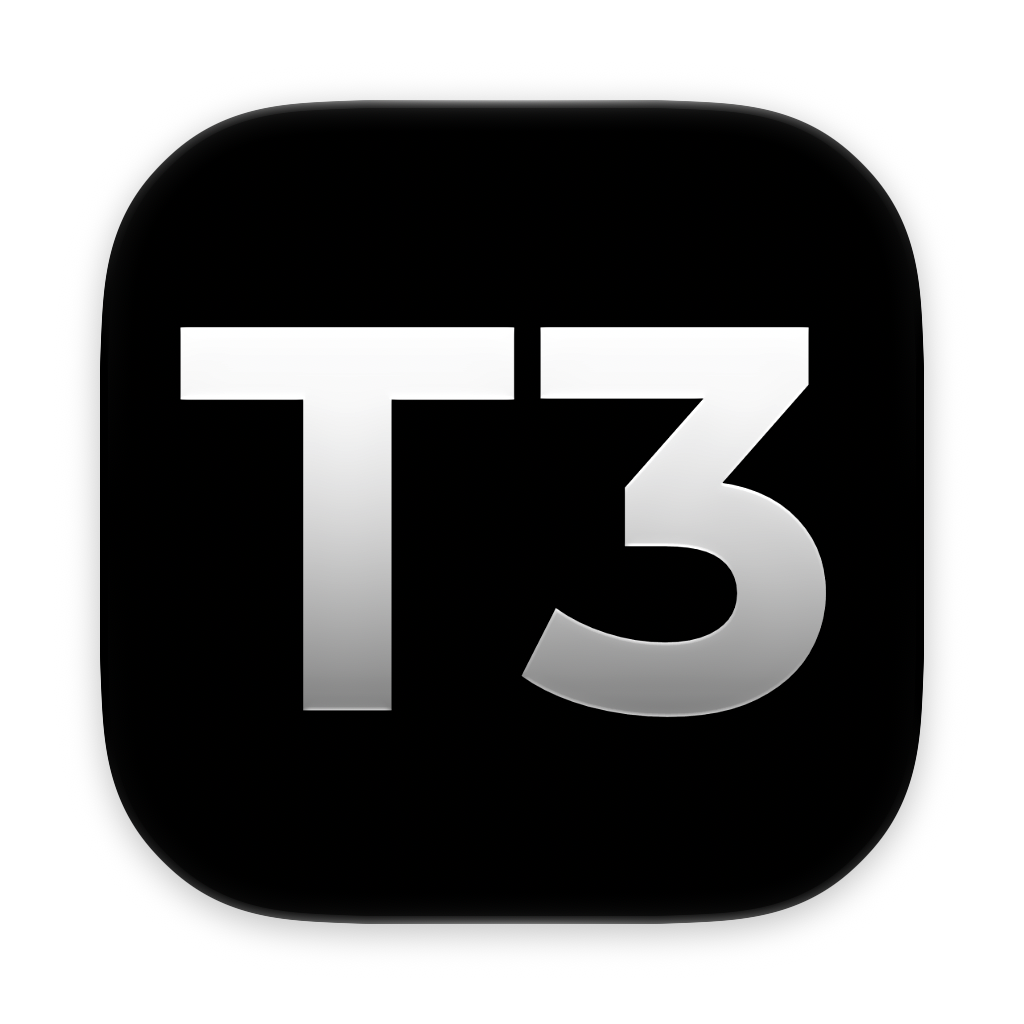
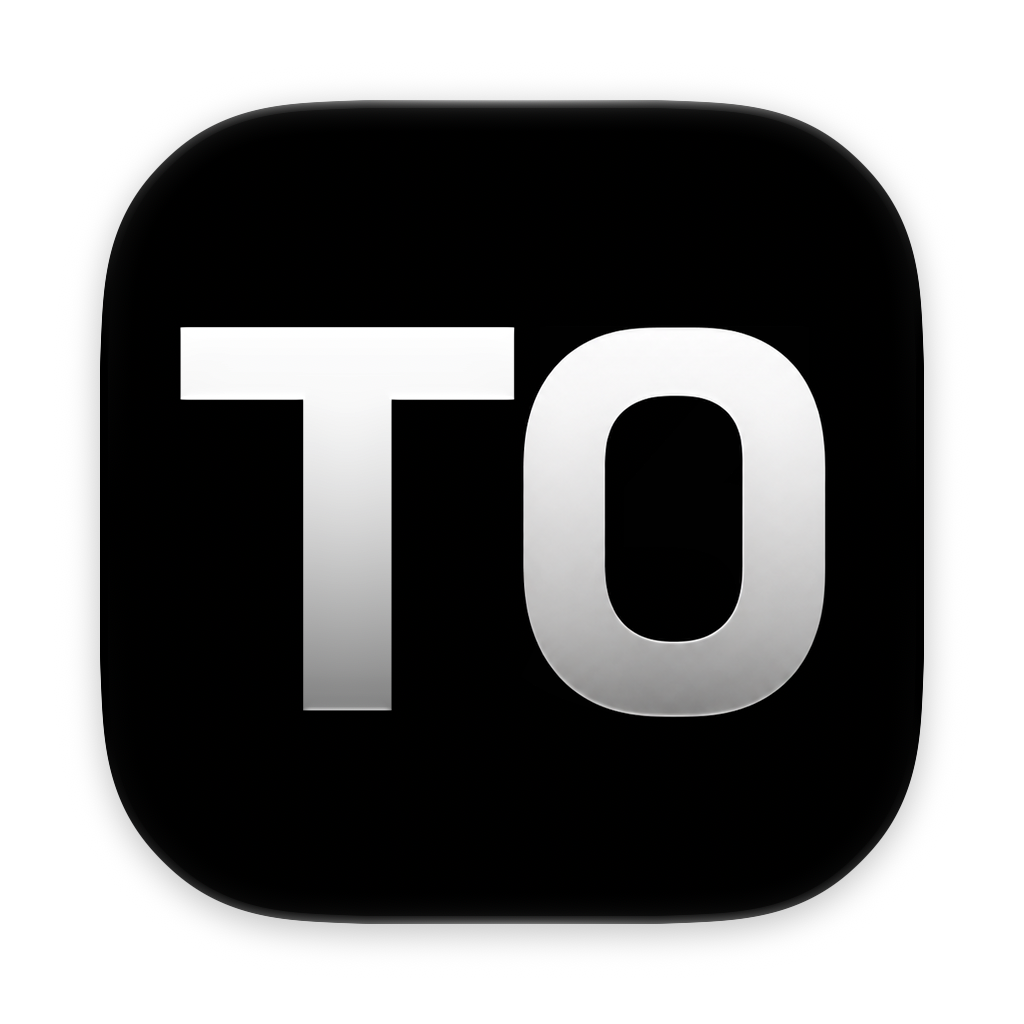
feat: ship the fork as T0 Code with GitHub release updates
The fork now builds as its own app so it can be installed next to T3 Code
and handed to other people: T0 Code (Beta), bundle id com.imxv.t0code,
T0-Code-* artifacts, a T0 icon, and its own ~/.t0 data directory and
Electron profile. The t3code:// scheme stays so pairing with the official
mobile app keeps working.

macOS builds can sign with an Apple Development identity instead of
Developer ID. That identity has a team ID, so the login keychain keeps
trusting each rebuild instead of asking again after every update; such
builds skip notarization and passkey entitlements. scripts/release-local-macos.sh
uses it for local test releases, and release-t0.yml signs with it in CI and
publishes a GitHub release that installed copies auto-update from, with the
public T3 Connect identifiers that official builds ship.

Made with Claude Opus 5.5 in T3 Code.

diff --git a/scripts/build-desktop-artifact.ts b/scripts/build-desktop-artifact.ts
@@ -63,7 +63,7 @@ import { Command, Flag } from "effect/cli";
 import { ChildProcess, ChildProcessSpawner } from "effect/process";
 
 const LINUX_ICON_SIZES = [16, 22, 24, 32, 48, 64, 128, 256, 512] as const;
-const DESKTOP_APP_ID = "com.t3tools.t3code";
+const DESKTOP_APP_ID = "com.imxv.t0code";
 const APPLE_TEAM_ID_PATTERN = /^[A-Z0-9]{10}$/u;
 
 const BuildPlatform = Schema.Literals(["mac", "linux", "win"]);
@@ -2799,8 +2799,8 @@ export function resolvePackageManagerUserAgent(packageManager: string): string {
 
 export function resolveDesktopProductName(version: string): string {
   return resolveDesktopUpdateChannel(version) === "nightly"
-    ? "T3 Code (Nightly)"
-    : (desktopPackageJson.productName ?? "T3 Code");
+    ? "T0 Code (Nightly)"
+    : (desktopPackageJson.productName ?? "T0 Code");
 }
 
 export const createBuildConfig = Effect.fn("createBuildConfig")(function* (
@@ -2818,12 +2818,13 @@ export const createBuildConfig = Effect.fn("createBuildConfig")(function* (
     | undefined,
   wslRuntimeBundled = false,
   arch?: typeof BuildArch.Type,
+  localMacSigning = false,
 ) {
   const buildConfig: Record<string, unknown> = {
     afterPack: (yield* Path.Path).join(yield* RepoRoot, "scripts/prepare-server-compile-cache.cjs"),
     appId: DESKTOP_APP_ID,
     productName: resolveDesktopProductName(version),
-    artifactName: "T3-Code-${version}-${arch}.${ext}",
+    artifactName: "T0-Code-${version}-${arch}.${ext}",
     electronLanguages: [...DESKTOP_ELECTRON_LANGUAGES],
     files: [
       ...DESKTOP_FILE_EXCLUSIONS,
@@ -2853,7 +2854,9 @@ export const createBuildConfig = Effect.fn("createBuildConfig")(function* (
   // Missing publish config infers a GitHub feed from tokens; staging has no repository, so manifest generation would crash.
   buildConfig.publish = null;
   if (!isDesktopPreviewVersion(version)) {
-    const publishConfig = yield* resolveGitHubPublishConfig(updateChannel);
+    // Local test releases serve the mock feed; fork releases publish to GitHub.
+    const publishConfig =
+      localMacSigning && mockUpdates ? undefined : yield* resolveGitHubPublishConfig(updateChannel);
     if (publishConfig) {
       buildConfig.publish = [publishConfig];
     } else if (mockUpdates) {
@@ -2877,23 +2880,23 @@ export const createBuildConfig = Effect.fn("createBuildConfig")(function* (
         // macOS 26 offers Messages/Mail codes in every text field unless opted out.
         NSAutoFillRequiresTextContentTypeForOneTimeCodeOnMac: true,
         NSLocalNetworkUsageDescription:
-          "T3 Code connects to devices on your local network for remote environments and commands run by terminals and coding agents.",
+          "T0 Code connects to devices on your local network for remote environments and commands run by terminals and coding agents.",
         NSCalendarsUsageDescription:
-          "Commands you run in T3 Code may need access to your calendars.",
+          "Commands you run in T0 Code may need access to your calendars.",
         NSCalendarsFullAccessUsageDescription:
-          "Commands you run in T3 Code may need to read and write your calendar events.",
+          "Commands you run in T0 Code may need to read and write your calendar events.",
         NSCalendarsWriteOnlyAccessUsageDescription:
-          "Commands you run in T3 Code may need to add events to your calendars.",
+          "Commands you run in T0 Code may need to add events to your calendars.",
         NSScreenCaptureUsageDescription:
-          "T3 Code captures the active window when you use the window capture shortcut.",
+          "T0 Code captures the active window when you use the window capture shortcut.",
         NSCameraUsageDescription:
-          "T3 Code lets commands run by terminals and coding agents use the camera.",
+          "T0 Code lets commands run by terminals and coding agents use the camera.",
         NSMicrophoneUsageDescription:
-          "T3 Code lets commands run by terminals and coding agents use the microphone.",
+          "T0 Code lets commands run by terminals and coding agents use the microphone.",
         NSAppleEventsUsageDescription:
-          "T3 Code lets commands run by terminals and coding agents control other apps.",
+          "T0 Code lets commands run by terminals and coding agents control other apps.",
         NSSpeechRecognitionUsageDescription:
-          "T3 Code transcribes your dictation on this Mac when you choose Apple Speech.",
+          "T0 Code transcribes your dictation on this Mac when you choose Apple Speech.",
         // macOS lists an app under Default web browser only when it opens web
         // pages as documents as well as http and https links (see protocols).
         CFBundleDocumentTypes: [
@@ -2907,7 +2910,7 @@ export const createBuildConfig = Effect.fn("createBuildConfig")(function* (
       },
       protocols: [
         {
-          name: "T3 Code",
+          name: "T0 Code",
           schemes: ["t3code", "t3code-dev"],
         },
         {
@@ -2917,6 +2920,7 @@ export const createBuildConfig = Effect.fn("createBuildConfig")(function* (
         },
       ],
       ...(signed ? { sign: path.join(repoRoot, "scripts/sign-macos.ts") } : {}),
+      ...(localMacSigning ? { identity: "-", notarize: false } : {}),
       ...(macPasskeySigning
         ? {
             entitlements: macPasskeySigning.entitlementsPath,
@@ -2960,7 +2964,7 @@ export const createBuildConfig = Effect.fn("createBuildConfig")(function* (
       maintainer: "T3 Tools <hello@t3.codes>",
       protocols: [
         {
-          name: "T3 Code",
+          name: "T0 Code",
           schemes: ["t3code", "t3code-dev"],
         },
       ],
@@ -2975,7 +2979,7 @@ export const createBuildConfig = Effect.fn("createBuildConfig")(function* (
     if (buildConfig.publish) {
       buildConfig.appImage = {
         artifactName:
-          updateChannel === "nightly" ? "T3-Code-Nightly-${arch}.${ext}" : "T3-Code-${arch}.${ext}",
+          updateChannel === "nightly" ? "T0-Code-Nightly-${arch}.${ext}" : "T0-Code-${arch}.${ext}",
       };
     }
     buildConfig.deb = {
@@ -3900,8 +3904,21 @@ const buildDesktopArtifactUnlocked = Effect.fn("buildDesktopArtifactUnlocked")(f
   const stageProdResourcesDir = path.join(stageAppDir, "apps/desktop/prod-resources");
   yield* fs.copy(stageResourcesDir, stageProdResourcesDir);
 
+  // Signs with a local or Apple Development identity: no notarization or passkey entitlements.
+  const localMacSigning =
+    options.platform === "mac" &&
+    options.signed &&
+    (Option.isSome(
+      yield* Config.String("T3CODE_DESKTOP_LOCAL_SIGNING_KEYCHAIN").pipe(Config.option),
+    ) ||
+      Option.isSome(
+        yield* Config.String("T3CODE_DESKTOP_LOCAL_SIGNING_IDENTITY").pipe(
+          Config.option,
+          Config.map(Option.filter((identity) => identity.length > 0)),
+        ),
+      ));
   const configuredMacPasskeySigning =
-    options.platform === "mac" && options.signed
+    options.platform === "mac" && options.signed && !localMacSigning
       ? yield* Effect.try({
           try: () => resolveMacPasskeySigningConfiguration(loadRepoEnv({ repoRoot })),
           catch: MacPasskeySigningConfigurationResolutionError.fromCause,
@@ -3958,7 +3975,7 @@ const buildDesktopArtifactUnlocked = Effect.fn("buildDesktopArtifactUnlocked")(f
       ? path.join(stageAppDir, WINDOWS_SERVER_RESOURCE_SOURCE_DIR, WINDOWS_SERVER_ASAR_RESOURCE)
       : undefined;
   const stagePackageJson: StagePackageJson = {
-    name: "t3code",
+    name: "t0code",
     version: appVersion,
     buildVersion: appVersion,
     t3codeCommitHash: commitHash,
@@ -3967,7 +3984,7 @@ const buildDesktopArtifactUnlocked = Effect.fn("buildDesktopArtifactUnlocked")(f
     private: true,
     packageManager: rootPackageJson.packageManager,
     description:
-      "T3 Code is an open-source desktop app for coding agents. Work with your existing agent subscriptions, review code changes, and run commands in your projects. Connect from desktop, web, or mobile to continue working remotely.",
+      "T0 Code is an open-source desktop app for coding agents. Work with your existing agent subscriptions, review code changes, and run commands in your projects. Connect from desktop, web, or mobile to continue working remotely.",
     license: "MIT",
     homepage: "https://t3.codes",
     author: "T3 Tools",
@@ -3987,6 +4004,7 @@ const buildDesktopArtifactUnlocked = Effect.fn("buildDesktopArtifactUnlocked")(f
         : undefined,
       bundlesWslRuntime({ platform: options.platform, runtimeArchivePath: options.wslRuntime }),
       options.arch,
+      localMacSigning,
     ),
     dependencies: stageDependencies,
     devDependencies: {

diff --git a/scripts/build-desktop-artifact.test.ts b/scripts/build-desktop-artifact.test.ts
@@ -1565,7 +1565,7 @@ it.layer(NodeServices.layer)("build-desktop-artifact", (it) => {
     });
 
     assert.deepStrictEqual(configuration, {
-      appId: "com.t3tools.t3code",
+      appId: "com.imxv.t0code",
       teamId: "ABC1234567",
       rpDomains: ["example.clerk.accounts.dev"],
       provisioningProfilePath: "/tmp/t3code.provisionprofile",
@@ -1588,7 +1588,7 @@ it.layer(NodeServices.layer)("build-desktop-artifact", (it) => {
       "clerk.example.com",
       "example.clerk.accounts.dev",
     ]);
-    assert.include(entitlements, "<string>ABC1234567.com.t3tools.t3code</string>");
+    assert.include(entitlements, "<string>ABC1234567.com.imxv.t0code</string>");
     assert.include(entitlements, "<string>webcredentials:clerk.example.com</string>");
     assert.include(entitlements, "<string>webcredentials:example.clerk.accounts.dev</string>");
     assert.include(entitlements, "<key>com.apple.security.cs.allow-jit</key>");
@@ -1603,7 +1603,7 @@ it.layer(NodeServices.layer)("build-desktop-artifact", (it) => {
   });
 
   it("grants in-app browser passkey entitlements only when the provisioning profile does", () => {
-    const configuration = { appId: "com.t3tools.t3code", teamId: "ABC1234567" };
+    const configuration = { appId: "com.imxv.t0code", teamId: "ABC1234567" };
     const profile = (entitlements: string, outside = "") =>
       `0\x82\x1f\x9a\x06\t*\x86H<?xml version="1.0"?><plist version="1.0"><dict>${outside}<key>Entitlements</key><dict>${entitlements}</dict></dict></plist>\x00\x01`;
     const teamWildcardGroups = `<key>keychain-access-groups</key>
@@ -1645,7 +1645,7 @@ it.layer(NodeServices.layer)("build-desktop-artifact", (it) => {
         configuration,
       ),
       {
-        touchIdKeychainAccessGroup: "ABC1234567.com.t3tools.t3code.webauthn",
+        touchIdKeychainAccessGroup: "ABC1234567.com.imxv.t0code.webauthn",
         browserPasskeys: true,
       },
     );
@@ -1661,7 +1661,7 @@ it.layer(NodeServices.layer)("build-desktop-artifact", (it) => {
     );
     assert.match(
       entitlements,
-      /<key>keychain-access-groups<\/key>\s*<array>\s*<string>ABC1234567\.com\.t3tools\.t3code\.webauthn<\/string>\s*<\/array>/u,
+      /<key>keychain-access-groups<\/key>\s*<array>\s*<string>ABC1234567\.com\.imxv\.t0code\.webauthn<\/string>\s*<\/array>/u,
     );
     assert.match(
       entitlements,

diff --git a/scripts/sign-macos.ts b/scripts/sign-macos.ts
@@ -1,5 +1,31 @@
 import { sign as signApplication, type SignOptions } from "@electron/osx-sign";
 
 export default async function sign(options: SignOptions): Promise<void> {
-  await signApplication({ ...options, batchCodesignCalls: true });
+  const keychain = process.env.T3CODE_DESKTOP_LOCAL_SIGNING_KEYCHAIN;
+  // An Apple-issued identity gives the build a team partition, so the keychain keeps trusting
+  // each rebuild; the self-signed fallback is trusted per build (cdhash) only.
+  const appleIdentity = process.env.T3CODE_DESKTOP_LOCAL_SIGNING_IDENTITY;
+  const localIdentity =
+    options.identity !== "-"
+      ? undefined
+      : appleIdentity
+        ? { identity: appleIdentity }
+        : keychain
+          ? { identity: "T3 Code Local Updates", keychain }
+          : undefined;
+  await signApplication({
+    ...options,
+    ...(localIdentity
+      ? {
+          ...localIdentity,
+          identityValidation: false,
+          preAutoEntitlements: false,
+          optionsForFile: (file, defaults) => ({
+            ...options.optionsForFile?.(file, defaults),
+            timestamp: "none",
+          }),
+        }
+      : {}),
+    batchCodesignCalls: true,
+  });
 }

diff --git a/apps/desktop/src/app/DesktopUserData.test.ts b/apps/desktop/src/app/DesktopUserData.test.ts
@@ -15,7 +15,7 @@ it.effect.each(["t3code", "T3 Code (Alpha)"])(
       const path = yield* Path.Path;
       const directory = yield* fs.makeTempDirectoryScoped({ prefix: "t3-v2-profile-" });
       const source = path.join(directory, sourceName);
-      const destination = path.join(directory, "t3code-v2");
+      const destination = path.join(directory, "t0code");
       const state = '{"os_crypt":{"encrypted_key":"test-encrypted-key"}}';
       yield* fs.makeDirectory(path.join(directory, "T3 Code (Alpha)"), { recursive: true });
       yield* fs.makeDirectory(path.join(source, "IndexedDB"), { recursive: true });
@@ -98,7 +98,7 @@ it.effect("keeps GPU caches built on the first launch of a fresh install", () =>
     const fs = yield* FileSystem.FileSystem;
     const path = yield* Path.Path;
     const appData = yield* fs.makeTempDirectoryScoped({ prefix: "t3-v2-fresh-" });
-    const userDataPath = path.join(appData, "t3code-v2");
+    const userDataPath = path.join(appData, "t0code");
 
     yield* clearStaleGpuCaches({ userDataPath, electronVersion: "44.10.1" });
     yield* fs.makeDirectory(path.join(userDataPath, "GPUCache"));

diff --git a/apps/desktop/src/app/DesktopAppIdentity.test.ts b/apps/desktop/src/app/DesktopAppIdentity.test.ts
@@ -154,7 +154,7 @@ describe("DesktopAppIdentity", () => {
         const identity = yield* DesktopAppIdentity.DesktopAppIdentity;
         const userDataPath = yield* identity.resolveUserDataPath;
 
-        assert.equal(userDataPath, "/Users/alice/Library/Application Support/t3code-v2");
+        assert.equal(userDataPath, "/Users/alice/Library/Application Support/t0code");
       }),
       { legacyPathExists: true },
     ),
@@ -200,9 +200,9 @@ describe("DesktopAppIdentity", () => {
 
         const runtimeName = calls.setName[0];
         assert.isDefined(runtimeName);
-        assert.equal(runtimeName, `T3 Code ${stage}`);
+        assert.equal(runtimeName, `T0 Code ${stage}`);
         assert.match(runtimeName.replaceAll(" ", ""), /^[!#$%&'*+\-.^_`|~0-9A-Za-z]+$/);
-        assert.equal(calls.setAboutPanelOptions[0]?.applicationName, `T3 Code (${stage})`);
+        assert.equal(calls.setAboutPanelOptions[0]?.applicationName, `T0 Code (${stage})`);
       }),
       { calls, environment },
     );

diff --git a/apps/desktop/src/app/DesktopUserData.ts b/apps/desktop/src/app/DesktopUserData.ts
@@ -41,7 +41,7 @@ export const resolveUserDataPath = Effect.fn("desktop.userData.resolveUserDataPa
     const path = yield* Path.Path;
     const names = input.isDevelopment
       ? { current: "t3code-dev", legacy: "T3 Code (Dev)" }
-      : { current: "t3code-v2", legacy: "T3 Code (Alpha)" };
+      : { current: "t0code", legacy: "T3 Code (Alpha)" };
     const destinationPath = path.join(input.appDataDirectory, names.current);
     const legacyPath = path.join(input.appDataDirectory, names.legacy);
     const inspect = (resourcePath: string) =>

diff --git a/apps/desktop/src/app/DesktopEnvironment.test.ts b/apps/desktop/src/app/DesktopEnvironment.test.ts
@@ -68,8 +68,8 @@ describe("DesktopEnvironment", () => {
       );
       const production = yield* makeEnvironment();
 
-      assert.equal(development.stateDir, "/Users/alice/.t3/dev");
-      assert.equal(production.stateDir, "/Users/alice/.t3/userdata");
+      assert.equal(development.stateDir, "/Users/alice/.t0/dev");
+      assert.equal(production.stateDir, "/Users/alice/.t0/userdata");
     }),
   );
 });

diff --git a/apps/desktop/src/app/DesktopStatePaths.ts b/apps/desktop/src/app/DesktopStatePaths.ts
@@ -16,7 +16,7 @@ export function resolveDesktopBaseDir(input: {
   readonly t3Home: Option.Option<string>;
 }): string {
   return Option.getOrElse(normalizeConfiguredBaseDir(input.t3Home), () =>
-    input.joinPath(input.homeDirectory, ".t3"),
+    input.joinPath(input.homeDirectory, ".t0"),
   );
 }
 

diff --git a/apps/desktop/src/app/DesktopEnvironment.ts b/apps/desktop/src/app/DesktopEnvironment.ts
@@ -85,7 +85,7 @@ export class DesktopEnvironment extends Context.Service<
   }
 >()("@t3tools/desktop/app/DesktopEnvironment") {}
 
-const APP_BASE_NAME = "T3 Code";
+const APP_BASE_NAME = "T0 Code";
 
 function resolveDesktopAppStageLabel(input: {
   readonly isDevelopment: boolean;
